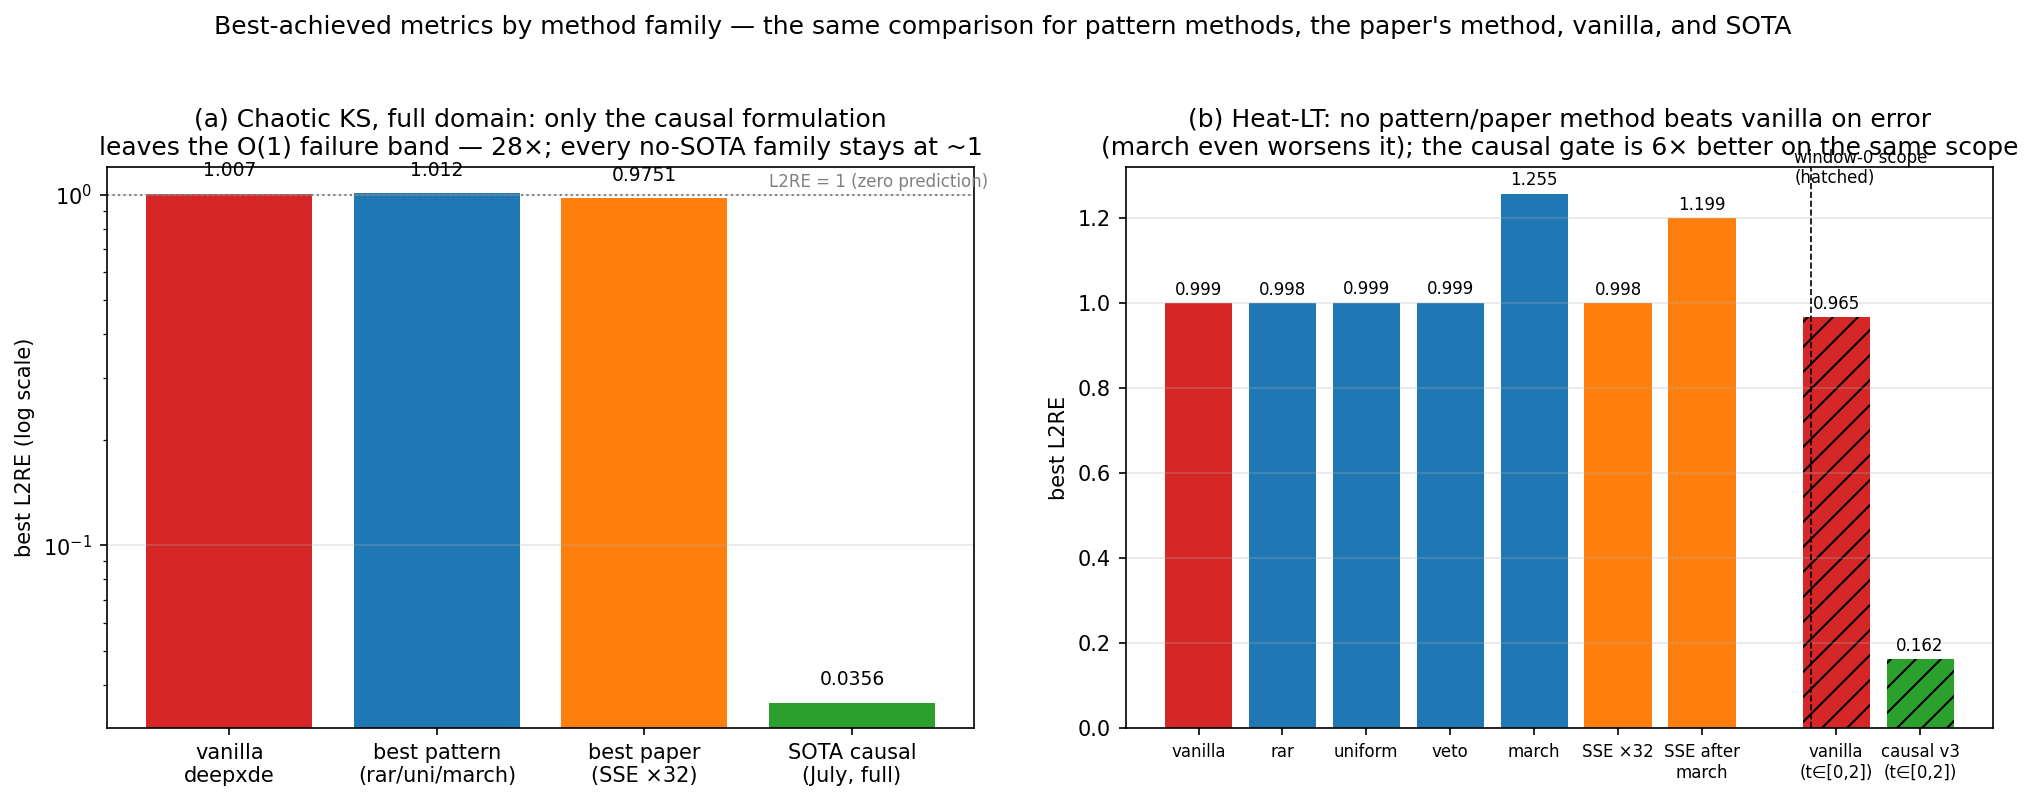
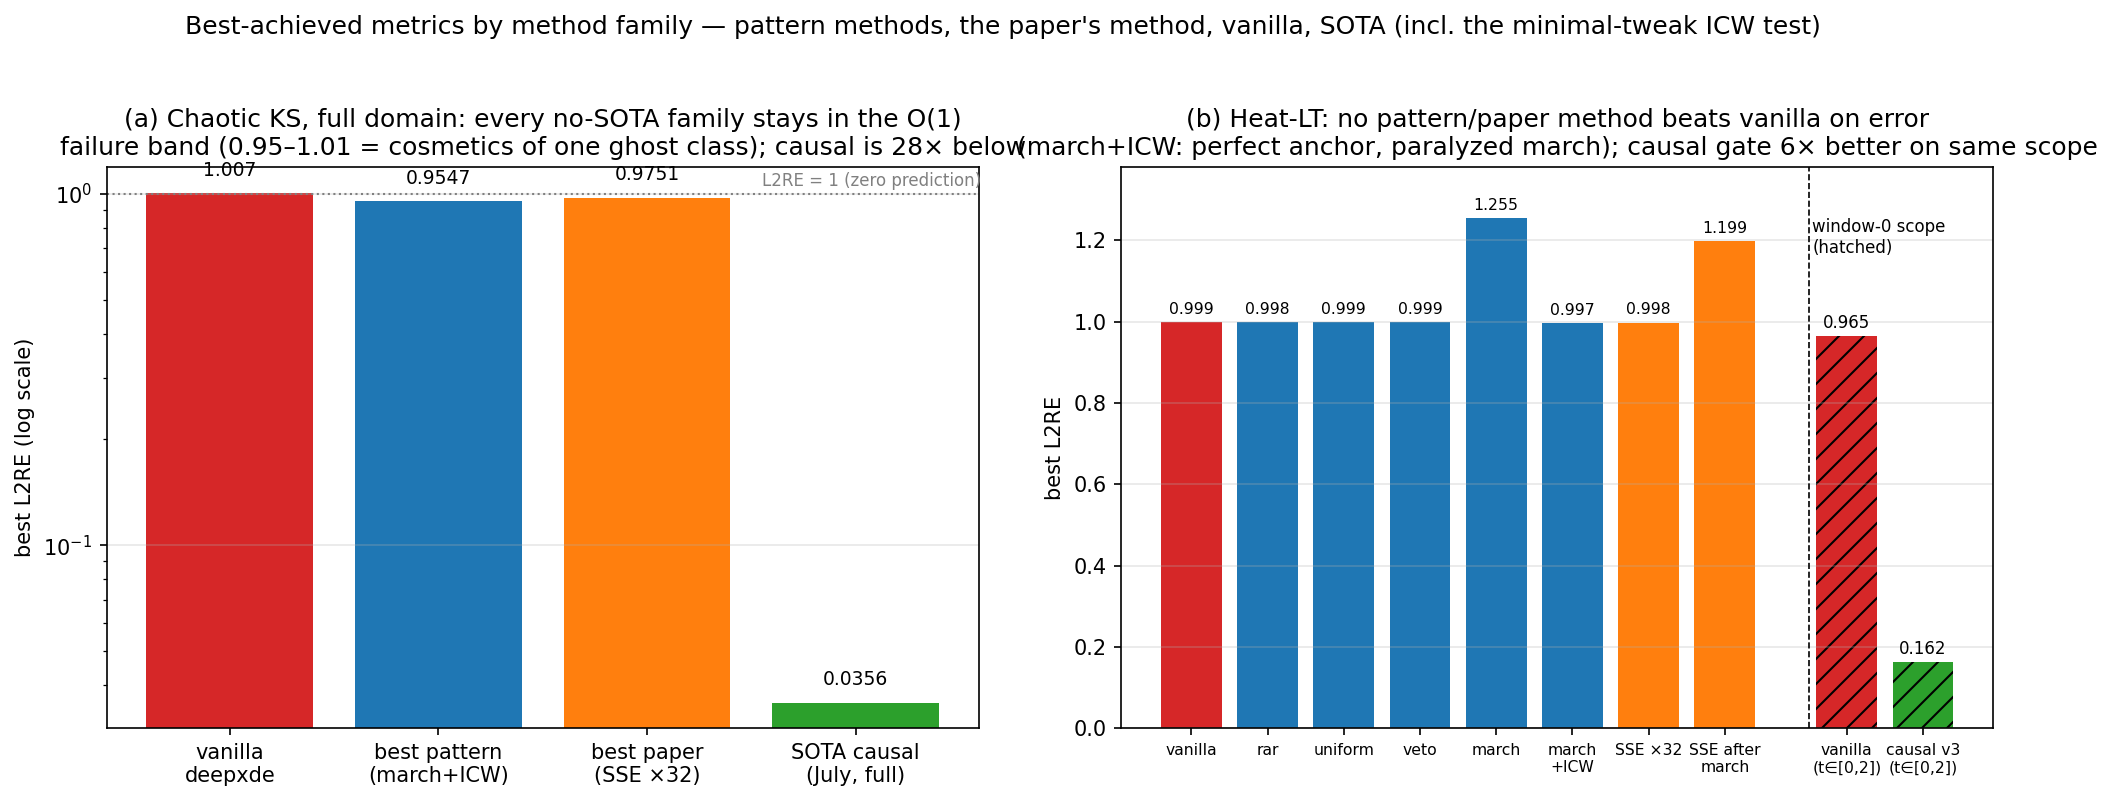
ICW minimal-tweak verdict: static IC weight anchors perfectly but paralyzes the march (heat 0.9966 t*=0.02, KS 0.9547 t*=0.06) - the causal gate's irreducible part is weight SELF-REMOVAL, not weight size; fig25 updated

diff --git a/analysis/REPORT_TRIVIAL.md b/analysis/REPORT_TRIVIAL.md
@@ -395,12 +395,21 @@ the veto supplies honesty. This is the sharpest available test of "SOTA metrics
 without SOTA methods": launched as `pm-heat-icw` / `pm-ks-icw` (march + veto +
 loss_weights [1, 10⁴, 1]); the result will be appended here.
 
-**Expected honestly:** on Heat-LT this may finally hold the true branch while the
-horizon grows (the causal-v3 mechanism, expressed in vanilla parts); on chaotic KS
-it will still hit wall #2 — so the answer to (b) "SOTA-level chaotic metrics from
-vanilla loss + deepxde + these methods" remains **no**: the measured ceiling of
-every no-SOTA family on KS is the O(1) band, and the two walls behind it are not
-numeric.
+**RESULT (measured): refuted — with the sharpest mechanical lesson of the study.**
+Heat: the anchor worked perfectly (t=0 slice error 0.010, best of all no-SOTA runs)
+— and the march was *paralyzed at the start*: t\* never left 0.02 in 40k iterations
+(zero expansions, zero vetoes), full-domain L2RE 0.9966. KS: same pattern (t\* stuck
+at 0.06, L2RE 0.9547 — the usual norm-shrink cosmetics). The static 10⁴ weight
+starves residual descent forever, so the covered residual never clears the advance
+threshold. **This isolates exactly what makes the causal gate work: not the size of
+the IC weight but its self-removal.** `W = exp(−tol·(Σ L_j + 10⁴·L_IC))` releases
+the physics at full strength the moment the IC is certified (L_IC → 1.8e-7 ⇒ gate →
+1); a static `loss_weights` multiplier holds the 10⁴:1 gradient starvation forever —
+anchor without self-removal = paralysis instead of marching. The adaptive weighting
+is therefore not an optional refinement of the SOTA recipe; it is the minimal
+irreducible part. Final answer to (b): **no** — the measured ceiling of every
+no-SOTA family on KS is the O(1) band (best: 0.9547), and the walls behind it are
+informational and structural, not numeric.
 
 ## 4.3 Gap anatomy: why escaping the trivial class still is not SOTA
 
